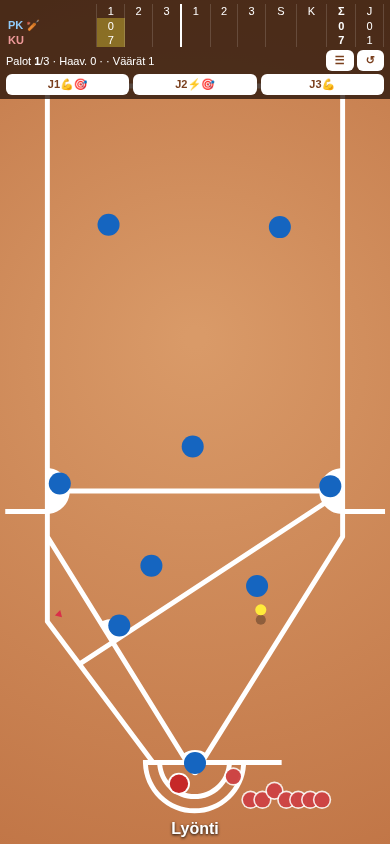
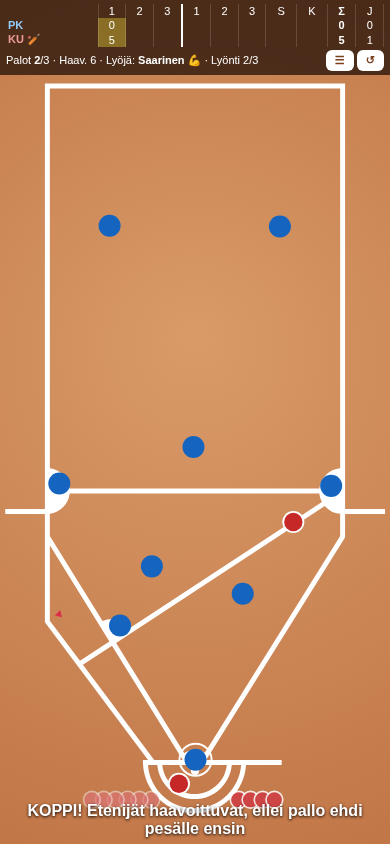
Pitch height (swipe), low pitch väärä §23, feint (hämäys), AI height/feints, tests

diff --git a/index.html b/index.html
@@ -54,7 +54,7 @@ function makeF(t){const pl=t.pl.slice(),out=[];const take=f=>{const i=pl.findInd
 // ---- ottelu ----
 function newGame(){T.forEach(t=>{t.next=0;t.runs=[]});G={pi:0,half:0,stage:'n',over:false,play:0};
  ov('<h2>Pesäpallo</h2>Sinä: <b style="color:#90caf9">Pesäkarhut</b> (kotijoukkue, aloittaa ulkovuorossa).<br>Ottelu: 2 jaksoa × '+VP+' vuoroparia, tasatilanteessa supervuoropari ja kotiutuskilpailu.'+help()+roster(),'Aloita',startHalf);}
-function help(){return '<p><b>Ulkovuoro:</b> napauta kenttää → lukkari syöttää. <b>Paina ja pidä</b> pesää tai toista pelaajaa (voit aloittaa jo ennen kuin pallo on omalla pelaajalla): vapauta kun mittari on vihreällä. Liian lyhyt = hidas heitto, liian pitkä = epätarkka. Jos vapautat ennen kiinniottoa, heitto lähtee heti kiinnioton jälkeen (keltainen rengas kohteessa). Pallo pesällä ennen etenijää = palo. <b>Kärkkyjät:</b> lukkari ei saa ottaa omaa syöttöään kiinni ilmasta. Kun vastustajan etenijä on irti pesästä, paina ja pidä pesää: <i>ennen syöttöä</i> lukkari heittää heti; <i>syötön aikana</i> mittari latautuu ja heitto lähtee, kun lukkari on nostanut lautaselle pudonneen pallon (n. 0,25 s). Kärkkyjälle tulee <b>palo</b>, jos pallo on hänen lähtöpesällään ennen kuin hän palaa pesälle, tai seuraavalla pesällä ennen kuin hän ehtii sinne.</p><p><b>Sisävuoro:</b> lukkari syöttää itse. <b>Napauta kohtaa, johon haluat lyödä</b>, kun pallo putoaa lautaselle (rengas vihertää). <b>Jokerit</b> (J1–J3, yläpalkki): vaihda lyöjä jokeriin ennen ensimmäistä syöttöä, kukin kerran vuorossa. Napauta <b>lyöjää</b> lähettääksesi hänet ykköselle ja <b>etenijää</b> lähettääksesi hänet seuraavalle pesälle. <b>Kärkkyminen:</b> ennen syöttöä napauta pesällä olevaa etenijää → hän kärkkyy (irti pesästä); napauta uudelleen → hän palaa pesälle. Syötön aikana napauta kärkkyjää → <b>lähtö</b> seuraavalle pesälle. Lukkari saa pallon vasta, kun syöttö on pudonnut lautaselle, ja heittää sitten polttoon; ⚡-juoksija ehtii useimmiten, tavallisella juoksijalla on noin puolet mahdollisuus.</p>'}
+function help(){return '<p><b>Ulkovuoro:</b> <b>napauta</b> kenttää → normaali syöttö. <b>Pyyhkäise ylös</b> → pyyhkäisyn pituus määrää syötön korkeuden: lyhyt näpäytys = matala syöttö (alle säännön rajan – metri lukkarin pään yli – lyömättä jätetty on <b>väärä</b>), pitkä = korkea syöttö. Matalaa on vaikeampi lyödä hyvin. <b>Nopea ylös–alas-nykäisy</b> = <b>hämäys</b>: lukkari aloittaa syöttöliikkeen mutta ei syötä; paina sitten (1 s sisällä) pesää → polttoheitto (mittari toimii kuten aina). Hämäys voi saada kärkkyjän lähtemään. Ilman heittoa lukkari pitää pallon. <b>Paina ja pidä</b> pesää tai toista pelaajaa (voit aloittaa jo ennen kuin pallo on omalla pelaajalla): vapauta kun mittari on vihreällä. Liian lyhyt = hidas heitto, liian pitkä = epätarkka. Jos vapautat ennen kiinniottoa, heitto lähtee heti kiinnioton jälkeen (keltainen rengas kohteessa). Pallo pesällä ennen etenijää = palo. <b>Kärkkyjät:</b> lukkari ei saa ottaa omaa syöttöään kiinni ilmasta. Kun vastustajan etenijä on irti pesästä, paina ja pidä pesää: <i>ennen syöttöä</i> lukkari heittää heti; <i>syötön aikana</i> mittari latautuu ja heitto lähtee, kun lukkari on nostanut lautaselle pudonneen pallon (n. 0,25 s). Kärkkyjälle tulee <b>palo</b>, jos pallo on hänen lähtöpesällään ennen kuin hän palaa pesälle, tai seuraavalla pesällä ennen kuin hän ehtii sinne.</p><p><b>Sisävuoro:</b> lukkari syöttää itse. <b>Napauta kohtaa, johon haluat lyödä</b>, kun pallo putoaa lautaselle (rengas vihertää). <b>Jokerit</b> (J1–J3, yläpalkki): vaihda lyöjä jokeriin ennen ensimmäistä syöttöä, kukin kerran vuorossa. Napauta <b>lyöjää</b> lähettääksesi hänet ykköselle ja <b>etenijää</b> lähettääksesi hänet seuraavalle pesälle. Varo lukkarin <b>hämäystä</b>: jos lähdet hämäysliikkeeseen, tulee helposti palo. <b>Kärkkyminen:</b> ennen syöttöä napauta pesällä olevaa etenijää → hän kärkkyy (irti pesästä); napauta uudelleen → hän palaa pesälle. Syötön aikana napauta kärkkyjää → <b>lähtö</b> seuraavalle pesälle. Lukkari saa pallon vasta, kun syöttö on pudonnut lautaselle, ja heittää sitten polttoon; ⚡-juoksija ehtii useimmiten, tavallisella juoksijalla on noin puolet mahdollisuus.</p>'}
 function roster(){let s='<table>';T.forEach(t=>{s+='<tr><td colspan=2 style="color:'+(t===T[0]?'#90caf9':'#ef9a9a')+'"><b>'+t.name+'</b></td></tr>';t.pl.concat(t.jk).forEach((p,i)=>s+='<tr><td>'+(i+1)+'. '+p.n+'</td><td>'+ic(p)+'</td></tr>')});
  return s+'</table><p style="font-size:12px">'+Object.values(AB).map(a=>a[0]+' '+a[1]).join('<br>')+'</p>'}
 function plabel(){return G.stage==='n'?(G.pi<VP?'1. jakso, '+(G.pi+1)+'. vuoropari':'2. jakso, '+(G.pi-VP+1)+'. vuoropari'):G.stage==='s'?'Supervuoropari':'Kotiutuskilpailu'}
@@ -85,10 +85,12 @@ function tot(t){return T[t].runs.slice(0,NP).reduce((a,b)=>a+(b||0),0)}
 function finish(w,note){phase='over';G.over=true;G.winner=w;const r=w<0?'Tasapeli':(w===0?'VOITIT! ':'Hävisit. ')+T[w].name+' voitti ottelun.';
  if(AUTO){updHud();return}ov('<h2>Ottelu päättyi</h2>'+note+'<br><b>'+r+'</b><br>Jaksot '+jaksoWins().join('–')+', juoksut '+tot(0)+'–'+tot(1),'Uusi ottelu',newGame)}
 // ---- syöttö & lyönti ----
-function doPitch(){queued=null;hold=null;if(phase!=='pre'||!batterReady())return;G.koppi=false;aiJoker();phase='pitch';G.play++;G.swung=false;G.playT=0;G.lkT=0;aiSteal();R.forEach(r=>{if(r.st==='run')r.playId=G.play});const L=F[0].p,va=rnd()<(has(L,'L')?.07:.17);
- ball={x:PLATE.x+(va?(rnd()<.5?-3.4:3.4):0),y:PLATE.y,h:0,vx:0,vy:0,vh:30,s:'pitch',hold:null,vaara:va,hit:false,bounced:false};
- const bp=G.batter;G.aiH=(!hB()&&bp)?((va&&rnd()<.75)?-1:3.2+(rnd()-.5)*(has(bp,'T')?1.8:3)):-1;}
-function timingQ(){if(ball.vh>=0||ball.h>6||ball.h<.7)return 0;return Math.max(.05,1-Math.abs(ball.h-3.2)/2.8)}
+const MINH=4.6,NORMH=11;
+function aiApex(){const L=F[0].p,ok=has(L,'L');if(R.length&&G.vaarat===0&&rnd()<.1)return 3+rnd()*1.2;if(R.some(r=>r.st==='lead')&&rnd()<.3)return (ok?4.8:5.1)+rnd()*1.2;return rnd()<.15?12.5+rnd()*2.5:8.5+rnd()*3.5}
+function doPitch(ap){queued=null;hold=null;if(phase!=='pre'||!batterReady())return;G.feint=null;const apex=ap!=null?ap:(hF()?NORMH:aiApex());G.koppi=false;aiJoker();phase='pitch';G.play++;G.swung=false;G.playT=0;G.lkT=0;aiSteal();R.forEach(r=>{if(r.st==='run')r.playId=G.play});const L=F[0].p,va=rnd()<(has(L,'L')?.07:.17)+(apex>13?.06:0)+(apex<4?.05:0),low=apex<MINH;
+ ball={x:PLATE.x+(va?(rnd()<.5?-3.4:3.4):0),y:PLATE.y,h:0,vx:0,vy:0,vh:Math.sqrt(80*apex),s:'pitch',hold:null,vaara:va,low,apex,hit:false,bounced:false};
+ const bp=G.batter;let aH=3.2+(rnd()-.5)*(bp&&has(bp,'T')?1.8:3);aH=Math.min(aH,apex*.8);G.aiH=(!hB()&&bp)?(((va||low&&apex<MINH-.4)&&rnd()<.85)||(low&&rnd()<.5)?-1:aH):-1;}
+function timingQ(){if(ball.vh>=0||ball.h>6||ball.h<.7)return 0;const A=ball.apex||NORMH,pk=Math.min(3.2,A*.7),w=A<6?1.6:A>13?2.3:2.8;return Math.max(0,1-Math.abs(ball.h-pk)/w)||0}
 function predictPick(b0){let x=b0.x,y=b0.y,h=b0.h,vx=b0.vx,vy=b0.vy,vh=b0.vh,fl=b0.s==='flight';const dt=.05;
  for(let s=0;s<6;s+=dt){if(fl){vh-=40*dt;h+=vh*dt;if(h<=0){h=0;fl=false;vx*=.45;vy*=.45}}else{const k=Math.max(0,1-RF*dt);vx*=k;vy*=k}x=clamp(x+vx*dt,XL,XR);y=clamp(y+vy*dt,YT,YB);
   if(s>.25&&h<4&&F.some(f=>d2(f,{x,y})-f.cr<=f.sp*(s-.25)))return{t:s,x,y}}return{t:6,x,y}}
@@ -96,7 +98,7 @@ function aiAim(){const p=G.batter;const deep=G.lyonnit>=2||(has(p,'K')?rnd()<.6:
 function aiAim1(p,deep){return{x:rnd()<.35?(rnd()<.5?XL:XR)+(rnd()-.5)*9:XL+3+rnd()*(XR-XL-6),y:deep?10+rnd()*60:70+rnd()*45}}
 function doSwing(q,aim){if(G.swung||!G.batter)return;G.swung=true;unlead();if(hold&&hold.ab)hold=null;if(queued&&queued.ab)queued=null;const p=G.batter;
  if(q<=0){say('Huti!');ball.s='dead';return useLyonti()}
- G.lyonnit++;const pw=has(p,'K')?1:.6,acc=has(p,'T')?.45:1;
+ G.lyonnit++;if((ball.apex||NORMH)<6)q*=.8;const pw=has(p,'K')?1:.6,acc=has(p,'T')?.45:1;
  let dx=aim.x-PLATE.x,dy=Math.min(aim.y-PLATE.y,-8),ang=Math.atan2(dy,dx)+(rnd()-.5)*(.12+(1-q)*.9)*acc;
  let mis=q<.55&&rnd()<.35||rnd()<.025;let dist=mis?1+rnd()*4:Math.min(Math.hypot(dx,dy),55+95*pw*(.45+.55*q))*(1+(rnd()-.5)*(.15+(1-q)*.5)*acc);
  const low=rnd()<(has(p,'T')?.6:.5),vh=low?2.5+rnd()*5:12+rnd()*12,t=2*vh/40,v=Math.min(dist/(low?t+.32:t),32+42*pw*(.4+.6*q));ball={x:PLATE.x,y:PLATE.y-1,h:1,vx:Math.cos(ang)*v,vy:Math.sin(ang)*v,vh,s:'flight',hold:null,hit:true,bounced:false,age:0};
@@ -108,7 +110,7 @@ function doSwing(q,aim){if(G.swung||!G.batter)return;G.swung=true;unlead();if(ho
 function useLyonti(){G.lyonnit++;if(G.lyonnit>=3){if(G.stage==='k'){phase='play';ball={...ball,s:'held',hold:F[0],h:0};return}
  say('3. lyönti meni – PALO!');G.palot++;G.batter&&G.queue.push(G.batter);G.batter=null;if(G.palot>=3)G.endPalo=.9;phase='play';G.playT=0;G.endT=0;resetHoldLukkari();}else{G.dead=.7;phase='dead'}}
 function resetHoldLukkari(){ball={x:F[0].x,y:F[0].y,h:0,vx:0,vy:0,vh:0,s:'held',hold:F[0],hit:false,bounced:false}}
-function pitchLanded(){if(ball.vaara){G.vaarat++;if(!R.length&&G.batter&&!G.batter.j&&G.stage!=='k'){say('Väärä syöttö – lyöjälle vapaataival');vapaataival();return}if(R.length&&G.vaarat>=2){say(G.vaarat+'. väärä – kärkietenijälle vapaataival!');vapaataival();return}say('Väärä syöttö');G.dead=.7;phase='dead'}
+function pitchLanded(){const lowV=ball.low&&!ball.vaara;if(ball.low)ball.vaara=true;const VT=lowV?'Matala syöttö – väärä':'Väärä syöttö';if(ball.vaara){G.vaarat++;if(!R.length&&G.batter&&!G.batter.j&&G.stage!=='k'){say(VT+' – lyöjälle vapaataival');vapaataival();return}if(R.length&&G.vaarat>=2){say((lowV?'Matala syöttö – ':'')+G.vaarat+'. väärä – kärkietenijälle vapaataival!');vapaataival();return}say(VT);G.dead=.7;phase='dead'}
  else{say('Syöttö meni ohi (lyönti)');useLyonti()}}
 function vapaataival(){unlead();R.forEach(r=>{if(r.st==='run'&&r.playId===G.play&&!r.bat&&!r.free&&r.prog<.88){r.st='safe';r.base=r.from}});const r=R.filter(r=>r.st==='safe'||r.st==='back').sort((a,b)=>(b.base||4)-(a.base||4))[0];
  if(r){if(r.st==='back'){r.st='safe';r.base=r.from}r.free=true;send(r,true,true)}else if(G.batter&&G.stage!=='k'){batterRun();R[R.length-1].free=true}
@@ -125,10 +127,17 @@ function steal(r){if(r.st!=='lead')return false;if(occ(r.to,r)){r.st='safe';retu
 function unlead(){R.forEach(r=>{if(r.st==='lead'){r.st='safe';r.base=r.from}})}
 function abortPitch(){const inAir=phase==='pickup';R.forEach(r=>{if(r.st==='lead'){r.st='back';r.kb=true}});phase='play';G.playT=0;G.endT=0;G.swung=true;resetHoldLukkari();G.aiT=0;G.aiD=0;G.lkT=0;say(inAir?'Lukkari nosti syötön – polttoyritys!':'Lukkari heittää!')}
 function karkOff(){return R.some(r=>r.st==='lead'||(r.st==='run'&&r.playId===G.play))}
-function aiLukkari(dt){if(phase==='pre'&&G.poT!==G.play&&settled()&&R.some(r=>r.st==='lead')){G.poT=G.play;const L=F[0];const c=R.filter(r=>r.st==='lead').find(r=>{const back=d2(r,B[r.from])/r.sp,tb=d2(L,B[r.from])/TS+.12;return tb<back-.02});if(c&&rnd()<.15){abortPitch();return}}
+function aiLukkari(dt){if(phase==='pre'&&hB()&&!G.feint&&G.fT!==G.play&&settled()&&R.some(r=>r.st==='lead')&&G.preT>.6){G.fT=G.play;if(rnd()<.3){feint();return}}
+ if(phase==='pre'&&G.poT!==G.play&&settled()&&R.some(r=>r.st==='lead')){G.poT=G.play;const L=F[0];const c=R.filter(r=>r.st==='lead').find(r=>{const back=d2(r,B[r.from])/r.sp,tb=d2(L,B[r.from])/TS+.12;return tb<back-.02});if(c&&rnd()<.15){abortPitch();return}}
  const runs=R.filter(r=>r.st==='run'&&!r.free);if(!runs.length){G.lkT=0;return}G.lkT=(G.lkT||0)+dt;const L=F[0],re=has(L.p,'L')?.28:.42;if(G.lkT<re||G.lkDone===G.play)return;G.lkDone=G.play;
  let best=null;runs.forEach(r=>{const tr=(1-r.prog)*legLen(r.from,r.to)/r.sp,tb=r.to===0?0:d2(L,B[r.to])/TS+.12;if(tb<tr-.05&&(!best||tr-tb>best.m))best={r,m:tr-tb}});
  if(best&&rnd()<(has(L.p,'L')?.95:.8))abortPitch()}
+function feint(){if(phase!=='pre'||G.feint)return;G.feint={t:0,ai:!hF(),done:false};
+ if(!hB())R.forEach(r=>{if(r.st==='lead'&&rnd()<(has(r.p,'N')?.2:.55)){r.fooled=.12+rnd()*.15}})}
+function feintStep(dt){const f=G.feint;if(!f)return;f.t+=dt;
+ R.forEach(r=>{if(r.fooled!=null){r.fooled-=dt;if(r.fooled<=0){r.fooled=null;steal(r)}}});
+ if(f.ai){if(f.t>.38&&!f.done){f.done=true;if(R.some(r=>r.st==='run'&&!r.free)){abortPitch();say('Lukkari hämäsi!');G.aiD=.05}}if(f.t>.6){G.feint=null;G.preT=Math.min(G.preT,.8)}}
+ else if(f.t>1){G.feint=null;R.forEach(r=>r.fooled=null)}}
 function aiKark(){if(hB()||G.stage==='k')return;R.forEach(r=>{if(r.st==='safe'&&r.base>0&&r.base<3&&!occ(r.base+1,r)&&rnd()<(has(r.p,'N')?.6:.3))kark(r)})}
 function aiSteal(){if(hB())return;R.forEach(r=>{if(r.st!=='lead')return;const tr=.25+(.88-r.prog)*legLen(r.from,r.to)/r.sp,est=1.5+.3+d2(F[0],B[r.to])/TS+.12;const p=(has(r.p,'N')?.22:.09)*(G.lyonnit>=2?1.6:1)*(R.length>1?.7:1);if(tr<est*(.92+rnd()*.16)&&rnd()<p)steal(r)})}
 function batterRun(){if(!G.batter||G.stage==='k'||(G.koppi&&phase==='play'))return;const r=mkR(G.batter,0);r.bat=true;r.playId=G.play;R.push(r);if(!send(r,true)){r.st='run';r.from=0;r.to=1}G.batter=null}
@@ -173,9 +182,10 @@ function aiThrow(h){let best=null,bs=-1e9;const PR=[.6,0,.2,.4];
 function step(dt){if(G.msgT>0&&(G.msgT-=dt)<=0)$('msg').textContent='';if(phase==='wait'||phase==='over')return;
  if(G.endPalo){if((G.endPalo-=dt)<=0){G.endPalo=0;return endHalf()}}
  if(phase==='pickup'&&(G.pk-=dt)<=0){abortPitch();if(hold&&hold.ab){hold.ab=false;hold.pre=false}if(queued&&queued.ab){const q=queued;queued=null;throwTo(q.f||{x:q.x,y:q.y,base:q.base},q.q)}if(!hF())G.aiD=.05}
- if(!hF()&&phase==='pre')aiLukkari(dt);
+ if(phase==='pre')feintStep(dt);
+ if(!hF()&&phase==='pre'&&!G.feint)aiLukkari(dt);
  if(phase==='pre'&&G.preT>.03&&G.karkP!==G.play){G.karkP=G.play;aiKark()}
- if(phase==='pre'&&batterReady()){G.preT+=dt;if(!hF()&&G.preT>(AUTO?.3:1.4)&&settled())doPitch();if(hF()&&AUTO&&settled())doPitch()}
+ if(phase==='pre'&&batterReady()){G.preT+=dt;if(!hF()&&!G.feint&&G.preT>(AUTO?.3:1.4)&&settled())doPitch();if(hF()&&AUTO&&settled())doPitch()}
  if(phase==='dead'){if((G.dead-=dt)<=0)toReturn();return}
  if(phase==='return'||phase==='swap'){G.retT+=dt;if(G.retT>8){snapAll();return}}
  if(phase==='play'||phase==='pitch')G.playT+=dt;
@@ -239,6 +249,7 @@ function draw(){const gr=cx.createRadialGradient(W/2,H*.4,10,W/2,H/2,H*.8);gr.ad
  if(G.batter&&G.batter.wx!=null){const[x,y]=P(G.batter.wx,G.batter.wy);circ(x,y,2.4*S,'#fff');circ(x,y,2*S,bc);if(hB()&&phase==='play'&&ball.hit){cx.strokeStyle='#ffeb3b';cx.lineWidth=2;cx.beginPath();cx.arc(x,y,3.4*S,0,7);cx.stroke()}}
  F.forEach(f=>{const[x,y]=P(f.x,f.y);circ(x,y,2.4*S,hold&&hold.f===f?'#ffeb3b':fc);if(f===ball.hold){cx.strokeStyle='#fff';cx.lineWidth=2;cx.beginPath();cx.arc(x,y,3.5*S,0,7);cx.stroke()}});
  if(!(ball.s==='held'&&ball.hold)&&ball.s!=='dead'||ball.s==='pitch'||phase==='pickup'){const[x,y]=P(ball.x,ball.y);circ(x,y,1.1*S,'rgba(0,0,0,.3)');circ(x,y-ball.h*.6*S,(1.1+ball.h*.03)*S,ball.vaara&&ball.s==='pitch'?'#ffab91':'#ffeb3b')}
+ if(G.feint&&ball.s==='held'&&ball.hold===F[0]){const ft=Math.min(G.feint.t,.32)/.32,fh=Math.sin(ft*Math.PI)*2.2,[x,y]=P(F[0].x,F[0].y);circ(x,y-fh*.6*S,1.1*S,'#ffeb3b')}
  if(tapMark&&tapMark.t>0){const[x,y]=P(tapMark.x,tapMark.y);cx.strokeStyle='rgba(255,255,255,'+tapMark.t+')';cx.lineWidth=2;cx.beginPath();cx.arc(x,y,2*S,0,7);cx.stroke()}
  if(queued&&(phase==='play'||phase==='pitch'||phase==='pickup')){const tp=queued.base!=null?B[queued.base]:queued.f,[x,y]=P(tp.x,tp.y);cx.strokeStyle='#ffeb3b';cx.lineWidth=2;cx.setLineDash([3,3]);cx.beginPath();cx.arc(x,y,4.5*S,0,7);cx.stroke();cx.setLineDash([])}
  if(hold&&(phase==='play'||phase==='pitch'||phase==='pickup')){const h=ball.s==='held'&&ball.hold?ball.hold:{...(hold.base!=null?B[hold.base]:hold.f),sw:[.56,.74]},[x,y]=P(h.x,h.y),w=22*S,hh=2.6*S,mx=clamp(x-w/2,4,W-w-4),my=y-7*S;cx.fillStyle='#222';cx.fillRect(mx,my,w,hh);cx.fillStyle='#4caf50';cx.fillRect(mx+w*h.sw[0],my,w*(h.sw[1]-h.sw[0]),hh);
@@ -253,18 +264,23 @@ function pos(e){const t=e.changedTouches?e.changedTouches[0]:e;return{x:(t.clien
 function down(e){e.preventDefault();if(!G||phase==='wait'||phase==='over')return;const p=pos(e);if(phase==='swap'||phase==='return'){snapAll();return}
  if(hF()){const tgt=()=>{let best=null,bd=8;B.forEach((b,i)=>{const d=d2(b,p);if(d<bd){bd=d;best={base:i,x:b.x,y:b.y}}});F.forEach(f=>{if(f===F[0])return;const d=d2(f,p);if(d<bd){bd=d;best={f,x:f.x,y:f.y}}});return best};
   if((phase==='pre'||(phase==='pitch'&&ball.s==='pitch'&&!G.swung)||phase==='pickup')&&karkOff()){const t=tgt();if(t){queued=null;if(phase==='pre'){abortPitch();hold={t:0,...t,pre:false}}else hold={t:0,...t,pre:true,ab:true};return}}
-  if(phase==='pre'){doPitch();return}
+  if(phase==='pre'&&G.feint&&!G.feint.ai){const t=tgt();if(t){abortPitch();say('Hämäys – heitto!');hold={t:0,...t,pre:false};G.feint=null;return}}
+  if(phase==='pre'){G.sw={y0:p.y,ymin:p.y,t:0};return}
   if(phase==='play'){const own=ball.s==='held'&&ball.hold;let best=null,bd=8;B.forEach((b,i)=>{const d=d2(b,p);if(d<bd){bd=d;best={base:i,x:b.x,y:b.y}}});F.forEach(f=>{if(own&&f===ball.hold)return;const d=d2(f,p);if(d<bd){bd=d;best={f,x:f.x,y:f.y}}});
    if(best){queued=null;hold={t:0,...best,pre:!own}}}return}
  if(hB()){tapMark={x:p.x,y:p.y,t:1};let best=null,bd=6;R.forEach(r=>{const d=d2(r,p);if((r.st==='safe'||r.st==='lead')&&d<bd){bd=d;best=r}});
+  if(best&&phase==='pre'&&G.feint&&best.st==='lead'){if(steal(best))say('Lähtö!');return}
   if(best&&phase==='pre'){if(best.st==='lead'){best.st='safe';best.base=best.from;say('Takaisin pesälle')}else if(occ(best.base+1,best))say('Pesä varattu');else if(kark(best))say('Kärkkyy');return}
   if(best&&phase==='pitch'&&best.st==='lead'){if(steal(best))say('Lähtö!');else say('Pesä varattu');return}
   if(best&&(phase==='pitch'||phase==='play')&&best.st==='safe'){if(!send(best))say('Pesä varattu');return}
   if(phase==='play'&&G.batter&&ball.hit&&d2(p,{x:39,y:153.5})<8){batterRun();return}
   if(phase==='pitch'&&!G.swung)doSwing(timingQ(),p)}}
-function up(e){e.preventDefault();if(!hold)return;const h=hold;hold=null;const q=Math.min(1,h.t/1.1);if((phase==='pitch'||phase==='pickup')&&h.ab){queued={...h,q};return}if(phase!=='play')return;if(ball.s==='held'&&ball.hold){if(h.f!==ball.hold)throwTo(h.f||{x:h.x,y:h.y,base:h.base},q)}else queued={...h,q}}
+function up(e){e.preventDefault();if(G&&G.sw&&hF()&&phase==='pre'&&!hold){const g=G.sw;G.sw=null;const p=pos(e),upMax=(g.y0-g.ymin)*S,endUp=(g.y0-p.y)*S;const k=pitchGesture(upMax,endUp);if(k.feint)feint();else doPitch(k.apex);return}if(!hold)return;const h=hold;hold=null;const q=Math.min(1,h.t/1.1);if((phase==='pitch'||phase==='pickup')&&h.ab){queued={...h,q};return}if(phase!=='play')return;if(ball.s==='held'&&ball.hold){if(h.f!==ball.hold)throwTo(h.f||{x:h.x,y:h.y,base:h.base},q)}else queued={...h,q}}
+function pitchGesture(upMax,endUp){if(upMax<14)return{apex:NORMH};if(upMax>=24&&endUp<upMax*.35)return{feint:true};return{apex:clamp(2.6+upMax/11,2.6,15)}}
+function mv(e){if(!G||!G.sw)return;const p=pos(e);G.sw.ymin=Math.min(G.sw.ymin,p.y)}
+cv.addEventListener('touchmove',mv,{passive:false});cv.addEventListener('mousemove',mv);
 cv.addEventListener('touchstart',down,{passive:false});cv.addEventListener('touchend',up,{passive:false});cv.addEventListener('touchcancel',up,{passive:false});
-cv.addEventListener('mousedown',down);addEventListener('mouseup',e=>{if(hold)up(e)});
+cv.addEventListener('mousedown',down);addEventListener('mouseup',e=>{if(hold||(G&&G.sw))up(e)});
 document.addEventListener('gesturestart',e=>e.preventDefault());document.addEventListener('touchmove',e=>{if(!e.target.closest('#ovt'))e.preventDefault()},{passive:false});
 $('rs').onclick=()=>{if(confirm('Aloitetaanko uusi ottelu?'))newGame()};$('rb').onclick=()=>{const ph=phase;phase=phase==='over'?'over':'wait';ov('<h2>Kokoonpanot</h2>'+roster()+help(),'Sulje',()=>{phase=ph})};
 newGame();rsz();let lt=performance.now(),hudT=0;

diff --git a/tests/pitch.js b/tests/pitch.js
@@ -1,0 +1,24 @@
+const pp=require('puppeteer-core');(async()=>{const br=await pp.launch({executablePath:'/usr/bin/google-chrome',args:['--no-sandbox'],headless:'new'});
+const pg=await br.newPage();const errs=[];pg.on('pageerror',e=>errs.push(e.message));await pg.goto('http://localhost:8787/');await pg.click('#ovb');
+const res=await pg.evaluate(()=>{const out={};const ev=(x,y)=>({preventDefault(){},clientX:x*S+OX,clientY:y*S+OY});const fr=n=>{for(let i=0;i<n;i++)frame(1/60)};
+ let msgs=[];const s0=say;window.say=m=>{msgs.push(m);s0(m)};
+ const prep=()=>{snapAll();R=[];G.palot=0;G.vaarat=0;G.lyonnit=0;phase='pre';G.preT=0;G.karkP=G.play;G.feint=null;msgs=[]};
+ const land=()=>{G.aiH=-1;ball.vaara=false;ball.x=PLATE.x;let i=0;while(ball.s==='pitch'&&i++<400)fr(1)};
+ // tap = normal
+ prep();down(ev(40,60));up(ev(40,60));out.tap_apex=ball.apex;out.tap_low=ball.low;land();out.tap_vaarat=G.vaarat;out.tap_msg=msgs.join('|');
+ // short flick = low -> unhit vaara
+ prep();down(ev(40,60));mv(ev(40,60-18/S));up(ev(40,60-18/S));out.low_apex=+ball.apex.toFixed(2);out.low_low=ball.low;let mx=0;G.aiH=-1;ball.vaara=false;ball.x=PLATE.x;while(ball.s==='pitch'){fr(1);mx=Math.max(mx,ball.h)}out.low_peak=+mx.toFixed(2);out.low_vaarat=G.vaarat;out.low_msg=msgs.join('|');
+ // long swipe = high legal
+ prep();down(ev(40,100));mv(ev(40,100-120/S));up(ev(40,100-120/S));out.high_apex=+ball.apex.toFixed(2);land();out.high_vaarat=G.vaarat;
+ // low but hit -> valid
+ prep();G.batter=G.batter||G.queue[0];G.batter.wx=SPOT.x;G.batter.wy=SPOT.y;doPitch(4);out.lowhit_pitched=ball.s==='pitch';ball.vaara=false;G.aiH=-1;let i=0;while(ball.s==='pitch'&&!(ball.vh<0&&ball.h<2.6)&&i++<300)fr(1);const q=timingQ();doSwing(Math.max(q,.3),{x:40,y:60});out.lowhit_q=+q.toFixed(2);out.lowhit_play=phase==='play'&&ball.hit;out.lowhit_vaarat=G.vaarat;out.lowhit_lyonnit=G.lyonnit;
+ // feint -> fooled kärkkyjä from 1st -> throw to 2nd burns
+ {let ok=0,fooled=0,N=10;for(let k=0;k<N;k++){prep();const r=mkR(T[1].pl.find(p=>!has(p,'N')),1);R.push(r);kark(r);r.prog=LP(r);
+   down(ev(40,100));mv(ev(40,100-40/S));up(ev(40,100-5/S));if(k===0)out.feint_started=!!G.feint&&phase==='pre';
+   let j=0;while(r.st!=='run'&&G.feint&&j++<60)fr(1);if(r.st==='run'){fooled++;fr(20);down(ev(B[2].x,B[2].y));fr(40);up(ev(B[2].x,B[2].y));fr(240);if(!R.includes(r))ok++}}
+  out.feint_fooled=fooled+'/'+N;out.feint_burned=ok+'/'+fooled;out.feint_vaarat=G.vaarat}
+ // feint w/o target: lukkari keeps ball after 1s
+ prep();down(ev(40,100));mv(ev(40,100-40/S));up(ev(40,100-5/S));fr(70);out.feint_keep=phase==='pre'&&!G.feint&&ball.hold===F[0];
+ G.half=1;startHalf();fr(400);snapAll();{let burned=0,N=6;for(let k=0;k<N;k++){prep();const r=mkR(T[0].pl.find(p=>!has(p,'N')),1);R.push(r);kark(r);r.prog=LP(r);feint();out.aiFeint_ai=G.feint.ai;fr(6);const e=ev(r.x,r.y);down(e);up(e);fr(400);if(!R.includes(r))burned++}out.aiFeint_burnedFooledHuman=burned+'/'+N}
+ window.say=s0;return out});
+console.log(JSON.stringify(res),errs);await br.close()})();
